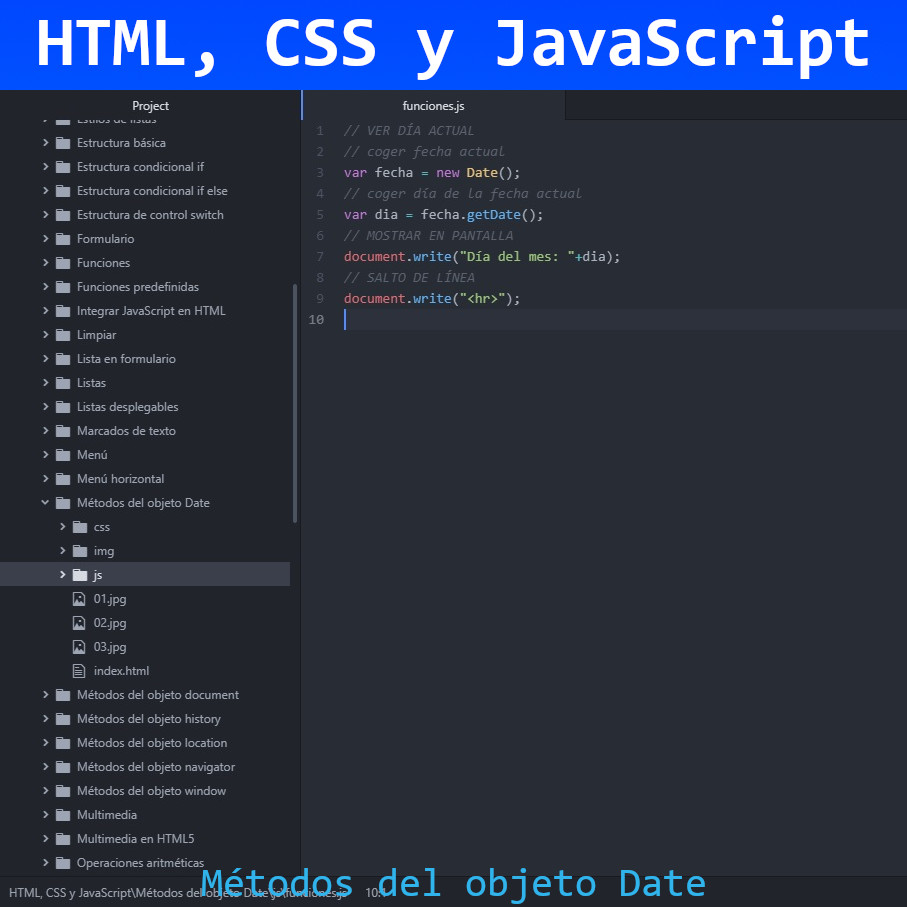
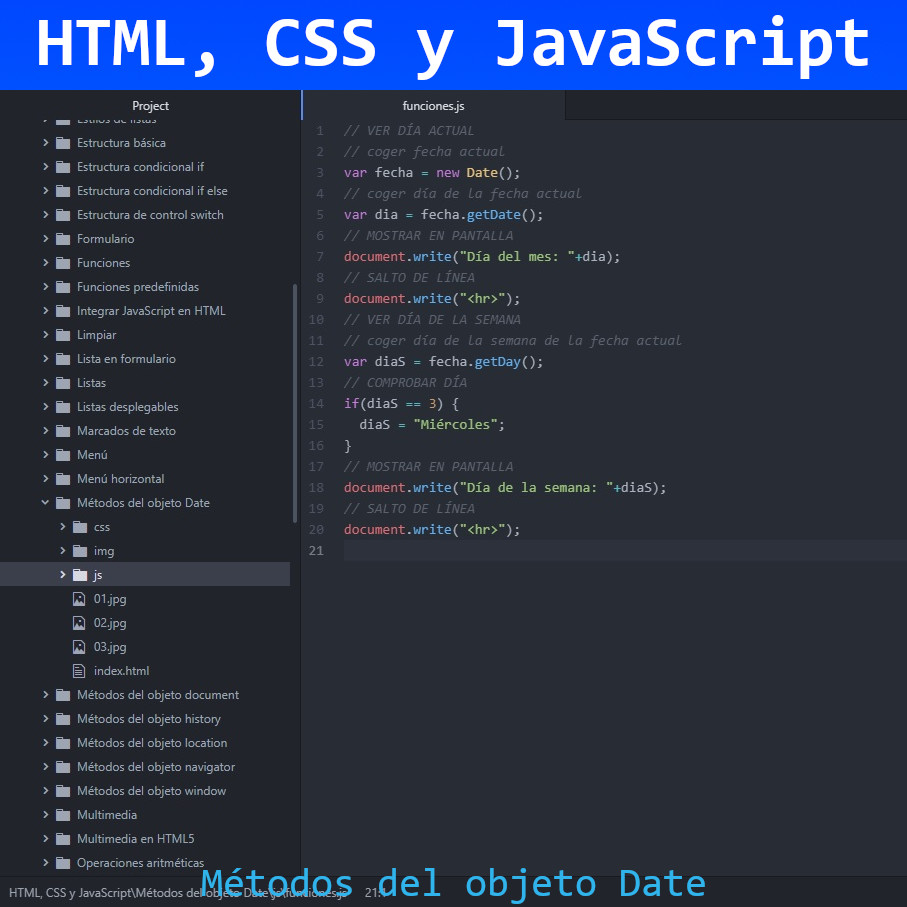
Métodos del objeto Date
Métodos del objeto Date en JavaScript

Changed region(s): [[0.3705, 0.3396, 0.6483, 0.5865], [0.6792, 0.5248, 0.71, 0.5557]]

diff --git a/HTML, CSS y JavaScript/Métodos del objeto Date/js/funciones.js b/HTML, CSS y JavaScript/Métodos del objeto Date/js/funciones.js
@@ -7,3 +7,14 @@ var dia = fecha.getDate();
 document.write("Día del mes: "+dia);
 // SALTO DE LÍNEA
 document.write("<hr>");
+// VER DÍA DE LA SEMANA
+// coger día de la semana de la fecha actual
+var diaS = fecha.getDay();
+// COMPROBAR DÍA
+if(diaS == 3) {
+  diaS = "Miércoles";
+}
+// MOSTRAR EN PANTALLA
+document.write("Día de la semana: "+diaS);
+// SALTO DE LÍNEA
+document.write("<hr>");
